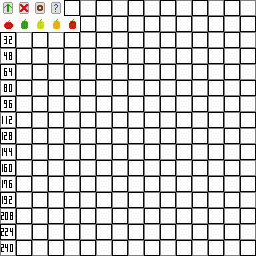
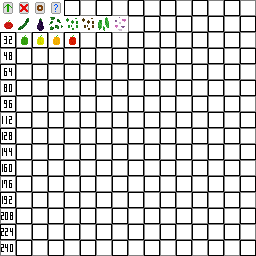
Worked on textures. Started working on new plants. Moved future content to notused package.

Changed region(s): [[0.0625, 0.0625, 0.5, 0.1875]]

diff --git a/Source/net/widux/stevetech/farming/EnumCrop.java b/Source/net/widux/stevetech/farming/EnumCrop.java
@@ -5,12 +5,13 @@ import net.minecraft.item.ItemStack;
 public enum EnumCrop
 {
 	
-	TOMATO("Tomato", 8, 2, 5, 3, 80, new ItemStack(SteveTechFarming.harvestedItems, 1, 0), new ItemStack(SteveTechFarming.seeds, 1, 0), true, true),
-	BEANS("Beans", 7, 2, 5, 1, 50, new ItemStack(SteveTechFarming.seeds, 1, 1), null, false, false),
-	ONION("Onion", 4, 1, 4, 1, 110, new ItemStack(SteveTechFarming.seeds, 1, 2), null, false, false),
-	BELLPEPPER("Bell Pepper", 7, 1, 4, 3, 70, new ItemStack(SteveTechFarming.harvestedItems, 1, 0), new ItemStack(SteveTechFarming.seeds, 1, 3), true, true),
-	CUCUMBER("Cucumber", 0, 3, 4, 4, 60, new ItemStack(SteveTechFarming.harvestedItems, 1, 5), new ItemStack(SteveTechFarming.seeds, 1, 5), true, true),
-	LETTUCE("Lettuce", 0, 1, 5, 4, 55, new ItemStack(SteveTechFarming.harvestedItems, 1, 6), new ItemStack(SteveTechFarming.seeds, 1, 6), true, true);
+	TOMATO		("Tomato",		8, 2, 5, 3, 80, new ItemStack(SteveTechFarming.harvestedItems, 1, 0),	new ItemStack(SteveTechFarming.seeds, 1, 0),	true, true),
+	ONION		("Onion",		4, 1, 4, 1, 110, new ItemStack(SteveTechFarming.seeds, 1, 1),			null,											false, false),
+	CUCUMBER	("Cucumber",	0, 2, 4, 4, 60, new ItemStack(SteveTechFarming.harvestedItems, 1, 1),	new ItemStack(SteveTechFarming.seeds, 1, 2),	true, true),
+	EGGPLANT	("Eggplant",	4, 1, 4, 1, 140, new ItemStack(SteveTechFarming.harvestedItems, 1, 2),	new ItemStack(SteveTechFarming.seeds, 1, 3),	true, true);//,
+	//BEANS		("Beans",		7, 2, 5, 1, 50, new ItemStack(SteveTechFarming.seeds, 1, 1),			null,											false, false),
+	//BELLPEPPER	("Bell Pepper",	7, 1, 4, 3, 70, new ItemStack(SteveTechFarming.harvestedItems, 1, 0),	new ItemStack(SteveTechFarming.seeds, 1, 3),	true, true),
+	//LETTUCE		("Lettuce",		0, 1, 5, 4, 55, new ItemStack(SteveTechFarming.harvestedItems, 1, 6),	new ItemStack(SteveTechFarming.seeds, 1, 6),	true, true);
 	
 	private String identifier;
 	private int growthStages;
@@ -29,7 +30,7 @@ public enum EnumCrop
 	 * @param maxHeight The maximum height of the plant (in blocks)
 	 * @param maxDropHarvest The maximum amount of harvest items dropped when harvested
 	 * @param maxDropSeed The maximum seed items dropped when harvested
-	 * @param growthSpeed The growth speed of the plant. Lower = faster
+	 * @param growthSpeed The growth speed of the plant. Lower = faster, use actual plant growth days.
 	 * @param dropHarvest The item dropped for the harvest
 	 * @param dropSeed The item dropped for the seed
 	 * @param willDropSeed Does this crop drop seeds?

diff --git a/Source/net/widux/stevetech/farming/CommonProxy.java b/Source/net/widux/stevetech/farming/CommonProxy.java
@@ -9,8 +9,8 @@ public class CommonProxy
 	
 	public void addComponents()
 	{
-		SteveTechFarming.corral = new BlockCorral(SteveTechFarming.config.getBlockID(1201, "Corral", null)).setBlockName("WiduX-SteveTech-Farm-Corral");
-		SteveTechFarming.fruit = new BlockFruit(SteveTechFarming.config.getBlockID(1202, "Fruit", null)).setBlockName("WiduX-SteveTech-Farm-Fruit");
+		//SteveTechFarming.corral = new BlockCorral(SteveTechFarming.config.getBlockID(1201, "Corral", null)).setBlockName("WiduX-SteveTech-Farm-Corral");
+		//SteveTechFarming.fruit = new BlockFruit(SteveTechFarming.config.getBlockID(1202, "Fruit", null)).setBlockName("WiduX-SteveTech-Farm-Fruit");
 		SteveTechFarming.crops = new BlockCrops(SteveTechFarming.config.getBlockID(1203, "Crops", null)).setBlockName("WiduX-SteveTech-Farm-Crops");
 		SteveTechFarming.seeds = new ItemSeeds(SteveTechFarming.config.getItemID(11000, "Seeds", null)).setItemName("WiduX-SteveTech-Farm-Seeds");
 		SteveTechFarming.harvestedItems = new ItemHarvest(SteveTechFarming.config.getItemID(11002, "Harvest", null)).setItemName("WiduX-SteveTech-Farm-Harvest");
@@ -34,10 +34,10 @@ public class CommonProxy
 	
 	public void registerBlocks()
 	{
-		GameRegistry.registerBlock(SteveTechFarming.corral, ItemBlockCorral.class, "WiduX-SteveTech-Farm-Corral");
-		GameRegistry.registerBlock(SteveTechFarming.fruit, "WiduX-SteveTech-Farm-Fruit");
+		//GameRegistry.registerBlock(SteveTechFarming.corral, ItemBlockCorral.class, "WiduX-SteveTech-Farm-Corral");
+		//GameRegistry.registerBlock(SteveTechFarming.fruit, "WiduX-SteveTech-Farm-Fruit");
 		GameRegistry.registerBlock(SteveTechFarming.crops, "WiduX-SteveTech-Farm-Crops");
-		GameRegistry.registerTileEntity(TileEntityFruit.class, "WiduX-SteveTech-Farm-Fruit-TE");
+		//GameRegistry.registerTileEntity(TileEntityFruit.class, "WiduX-SteveTech-Farm-Fruit-TE");
 		GameRegistry.registerTileEntity(TileEntityCrop.class, "WiduX-SteveTech-Farm-Crop-TE");
 	}
 	

diff --git a/Source/net/widux/stevetech/farming/ClientProxy.java b/Source/net/widux/stevetech/farming/ClientProxy.java
@@ -15,23 +15,23 @@ public class ClientProxy extends CommonProxy
 		MinecraftForgeClient.preloadTexture("/net/widux/stevetech/farming/Crops.png");
 		MinecraftForgeClient.preloadTexture("/net/widux/stevetech/farming/Item.png");
 		MinecraftForgeClient.preloadTexture("/net/widux/stevetech/farming/Seed.png");
-		SteveTechFarming.renderFruitID = RenderingRegistry.getNextAvailableRenderId();
+		//SteveTechFarming.renderFruitID = RenderingRegistry.getNextAvailableRenderId();
 		SteveTechFarming.renderCropID = RenderingRegistry.getNextAvailableRenderId();
-		RenderingRegistry.registerBlockHandler(SteveTechFarming.renderFruitID, new RenderFruit());
+		//RenderingRegistry.registerBlockHandler(SteveTechFarming.renderFruitID, new RenderFruit());
 		RenderingRegistry.registerBlockHandler(SteveTechFarming.renderCropID, new RenderCrop());
 	}
 	
 	@Override
 	public void registerNames()
 	{
-		for(int meta = 0; meta < 6; meta++)
+		/*for(int meta = 0; meta < 6; meta++)
 		{
 			LanguageRegistry.addName(new ItemStack(SteveTechFarming.corral, 1, meta), "Corral");
-		}
+		}*/
 		
 		LanguageRegistry.addName(new ItemStack(SteveTechFarming.crops, 1), "Crop Block");
 		
-		for(int meta = 0; meta < 4; meta ++)
+		for(int meta = 0; meta < TileEntityCrop.getSeedTypesAmount(); meta++)
 		{
 			if(TileEntityCrop.getSuffix(meta))
 			{
@@ -55,7 +55,7 @@ public class ClientProxy extends CommonProxy
 		LanguageRegistry.addName(new ItemStack(SteveTechFarming.creativeTools, 1, 3), "Plant Info");
 		
 		LanguageRegistry.instance().addStringLocalization("itemGroup.BetterFarming", "en_US", "BetterFarming");
-		//LanguageRegistry.addName(new ItemStack(BetterFarming.fruits, 1, 0), "Fruit");
+		//LanguageRegistry.addName(new ItemStack(SteveTechFarming.fruits, 1, 0), "Fruit");
 	}
 	
 }

diff --git a/Source/net/widux/stevetech/farming/SteveTechFarming.java b/Source/net/widux/stevetech/farming/SteveTechFarming.java
@@ -29,12 +29,12 @@ public class SteveTechFarming
 	public static ConfigAssist config;
 	
 	public static Block crops;
-	public static Block corral;
-	public static Block leaves;
-	public static Block logs;
-	public static Block fruit;
+	//public static Block corral;
+	//public static Block leaves;
+	//public static Block logs;
+	//public static Block fruit;
 	
-	public static TileEntityFruit teFruit;
+	//public static TileEntityFruit teFruit;
 	public static TileEntityCrop teCrop;
 	
 	public static Item seeds;
@@ -43,7 +43,7 @@ public class SteveTechFarming
 	
 	public static CreativeTabs betterFarmingTab = new CreativeTabFarming("BetterFarming");
 	
-	public static int renderFruitID;
+	//public static int renderFruitID;
 	public static int renderCropID;
 	
 	@Instance(MOD_INTERNAL_NAME)

diff --git a/Source/net/widux/stevetech/farming/notused/RenderFruit.java b/Source/net/widux/stevetech/farming/notused/RenderFruit.java
@@ -1,4 +1,4 @@
-package net.widux.stevetech.farming;
+package net.widux.stevetech.farming.notused;
 
 import net.minecraft.block.Block;
 import net.minecraft.client.renderer.EntityRenderer;
@@ -40,7 +40,7 @@ public class RenderFruit implements ISimpleBlockRenderingHandler
         double var20 = (double)y;
         double var15 = (double)z;
 
-       /* if (block == Block.tallGrass)
+        /*if (block == Block.tallGrass)
         {
             long var17 = (long)(x * 3129871) ^ (long)z * 116129781L ^ (long)y;
             var17 = var17 * var17 * 42317861L + var17 * 11L;

diff --git a/Source/net/widux/stevetech/farming/RenderCrop.java b/Source/net/widux/stevetech/farming/RenderCrop.java
@@ -21,6 +21,7 @@ public class RenderCrop implements ISimpleBlockRenderingHandler
         tess.setColorOpaque_F(1.0F, 1.0F, 1.0F);
         
         TileEntityCrop teCrop = (TileEntityCrop) world.getBlockTileEntity(x, y, z);
+        System.out.println("Getting ID for crop at X" + x + "  Y" + y + "  Z" + z);
         int cropType = teCrop.getCropID();
         int cropStage = teCrop.getGrowthStage();
         int texture = teCrop.getCropTexture(cropType, cropStage);

diff --git a/Source/net/widux/stevetech/farming/ItemHarvest.java b/Source/net/widux/stevetech/farming/ItemHarvest.java
@@ -9,7 +9,7 @@ import net.minecraft.item.ItemStack;
 public class ItemHarvest extends Item
 {
 	
-	public static final String[] names = {"Tomato", "Green Bell Pepper", "Yellow Bell Pepper", "Orange Bell Pepper", "Red Bell Pepper", "Cucumber"};
+	public static final String[] names = {"Tomato", "Onion", "Cucumber", "Eggplant", "Tea Leaves", "Raw Coffe Beans", "Roasted Coffee Beans", "Lettuce", "Radishes"};
 	
 	public ItemHarvest(int ID)
 	{

diff --git a/Source/net/widux/stevetech/farming/ItemSeeds.java b/Source/net/widux/stevetech/farming/ItemSeeds.java
@@ -33,7 +33,7 @@ public class ItemSeeds extends Item
 		return 0 + meta;
 	}
 	
-	public String getUnlocalizedName(ItemStack item)
+	public String getItemNameIS(ItemStack item)
 	{
 		return "WiduX-BF-Item-Seeds." + TileEntityCrop.getCrop(item.getItemDamage()).getName();
 	}

diff --git a/Source/net/widux/stevetech/farming/ItemCreativeTools.java b/Source/net/widux/stevetech/farming/ItemCreativeTools.java
@@ -30,7 +30,7 @@ public class ItemCreativeTools extends Item
 		return 0 + meta;
 	}
 	
-	public String getUnlocalizedName(ItemStack item)
+	public String getItemNameIS(ItemStack item)
 	{
 		return "WiduX-BF-Item-CreativeTools." + item.getItemDamage();
 	}

diff --git a/Source/net/widux/stevetech/farming/notused/ItemBlockCorral.java b/Source/net/widux/stevetech/farming/notused/ItemBlockCorral.java
@@ -1,4 +1,4 @@
-package net.widux.stevetech.farming;
+package net.widux.stevetech.farming.notused;
 
 import net.minecraft.item.ItemBlock;
 import net.minecraft.item.ItemStack;

diff --git a/Source/net/widux/stevetech/farming/notused/BlockFruit.java b/Source/net/widux/stevetech/farming/notused/BlockFruit.java
@@ -1,4 +1,4 @@
-package net.widux.stevetech.farming;
+package net.widux.stevetech.farming.notused;
 
 import java.util.Random;
 

diff --git a/Source/net/widux/stevetech/farming/notused/GenerateUnderwater.java b/Source/net/widux/stevetech/farming/notused/GenerateUnderwater.java
@@ -1,4 +1,4 @@
-package net.widux.stevetech.farming;
+package net.widux.stevetech.farming.notused;
 
 import java.util.Random;
 
